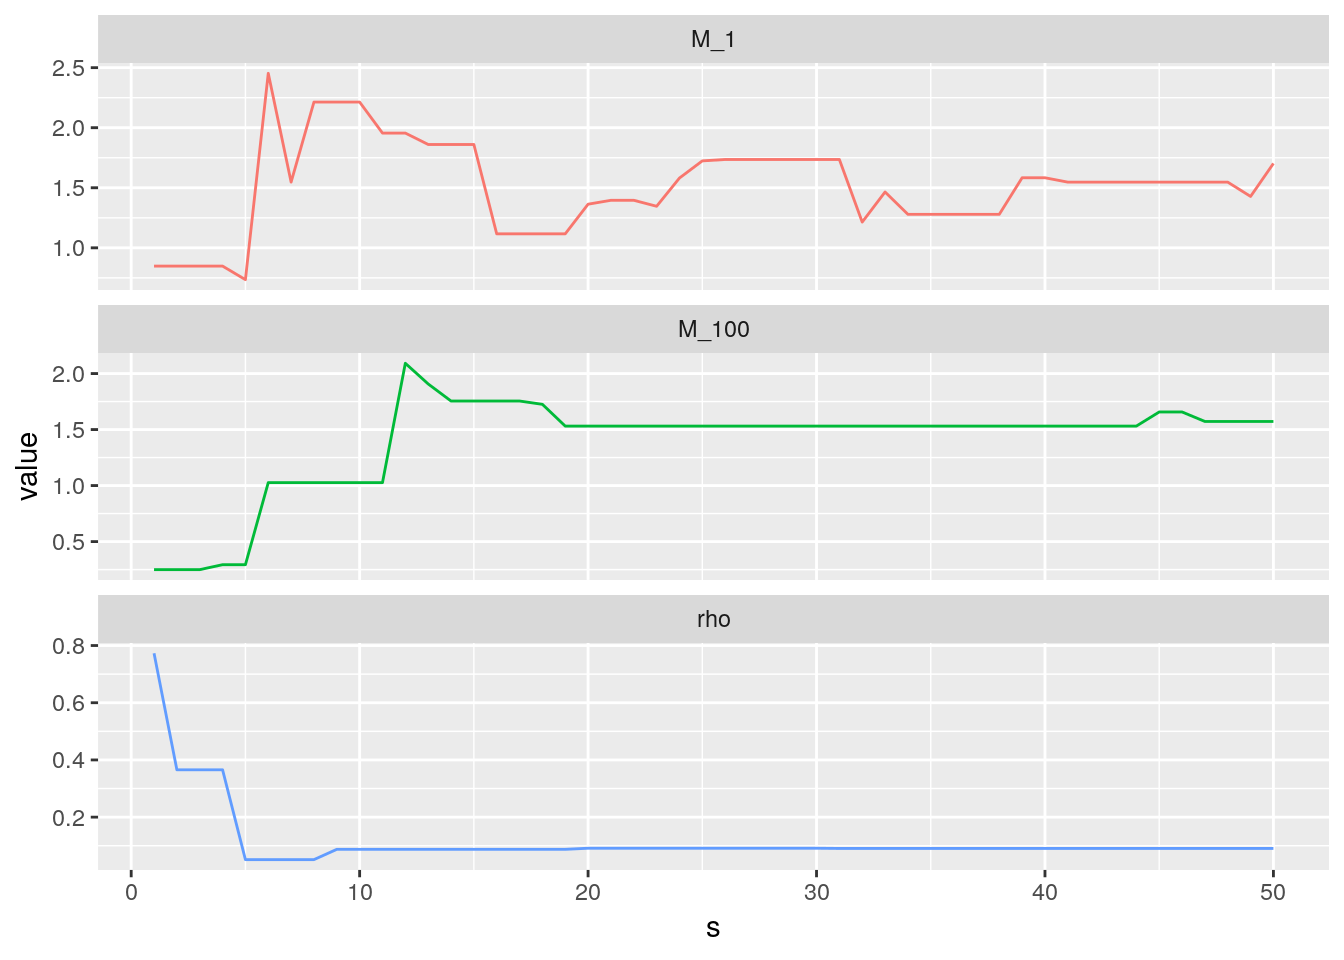
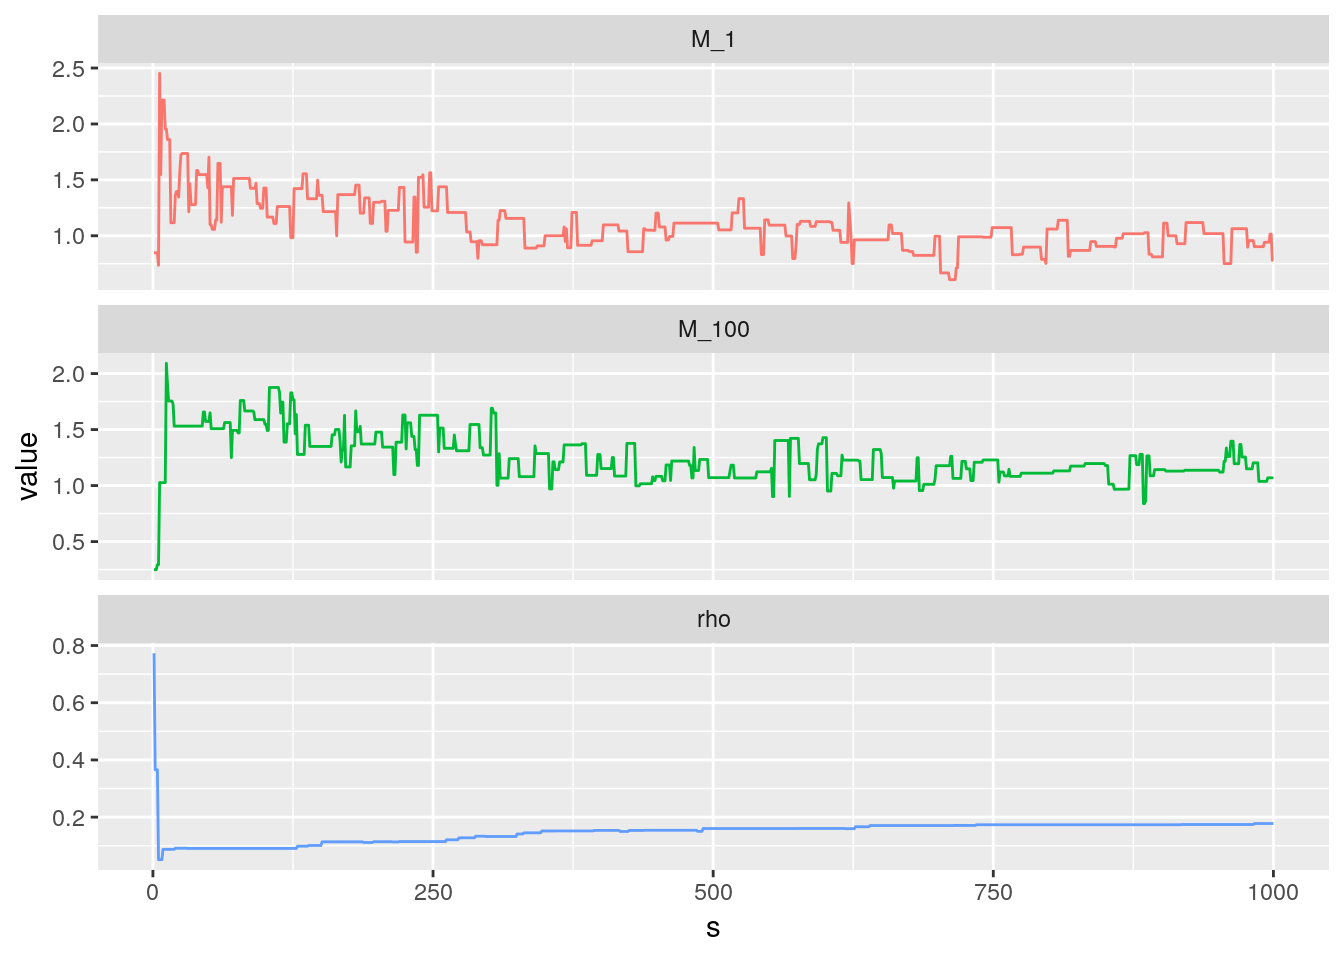
Minor changes in post about BIDC package

diff --git a/2018/12/07/bidc-bayesian-inference-for-default-correlations/index.html b/2018/12/07/bidc-bayesian-inference-for-default-correlations/index.html
@@ -303,7 +303,7 @@ l_data = sample_data(N=N,Tau=Tau,rho=rho,median_pd=median_pd,a=a)</code></pre>
 <p>We are now ready to run the chain. We will do this for 1,000 iterations. Note that we will supply the exact PDs that were used to simulate the data. This is the best case scenario for our method.</p>
 <pre class="r"><code>library(BIDC)
 
-S = 50L # number of iterations
+S = 1000L # number of iterations
 chain = bidc_pd(S=S, y=l_data$y, p_d=l_data$p_d, verbose = 0L)</code></pre>
 <div id="trace-plots" class="section level3">
 <h3>Trace plots</h3>
